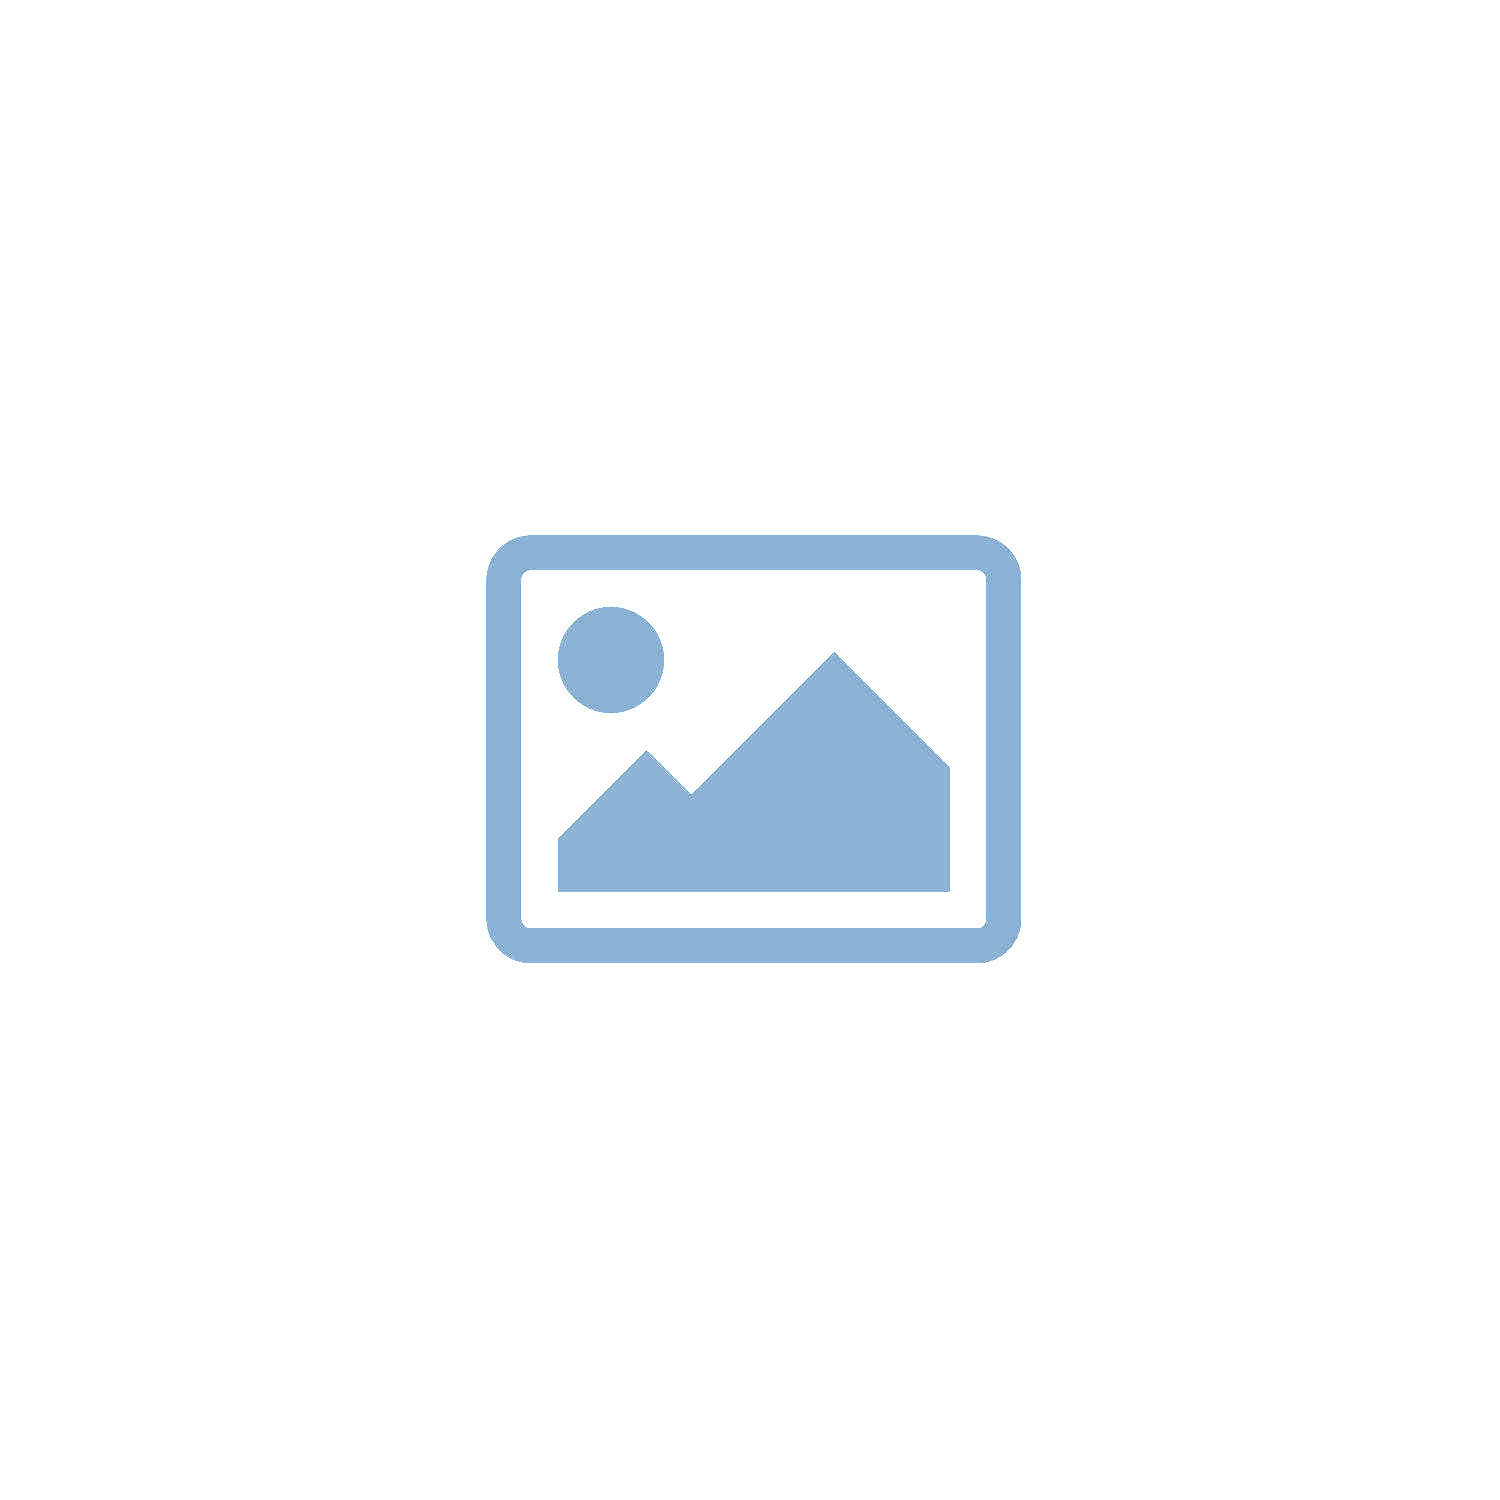
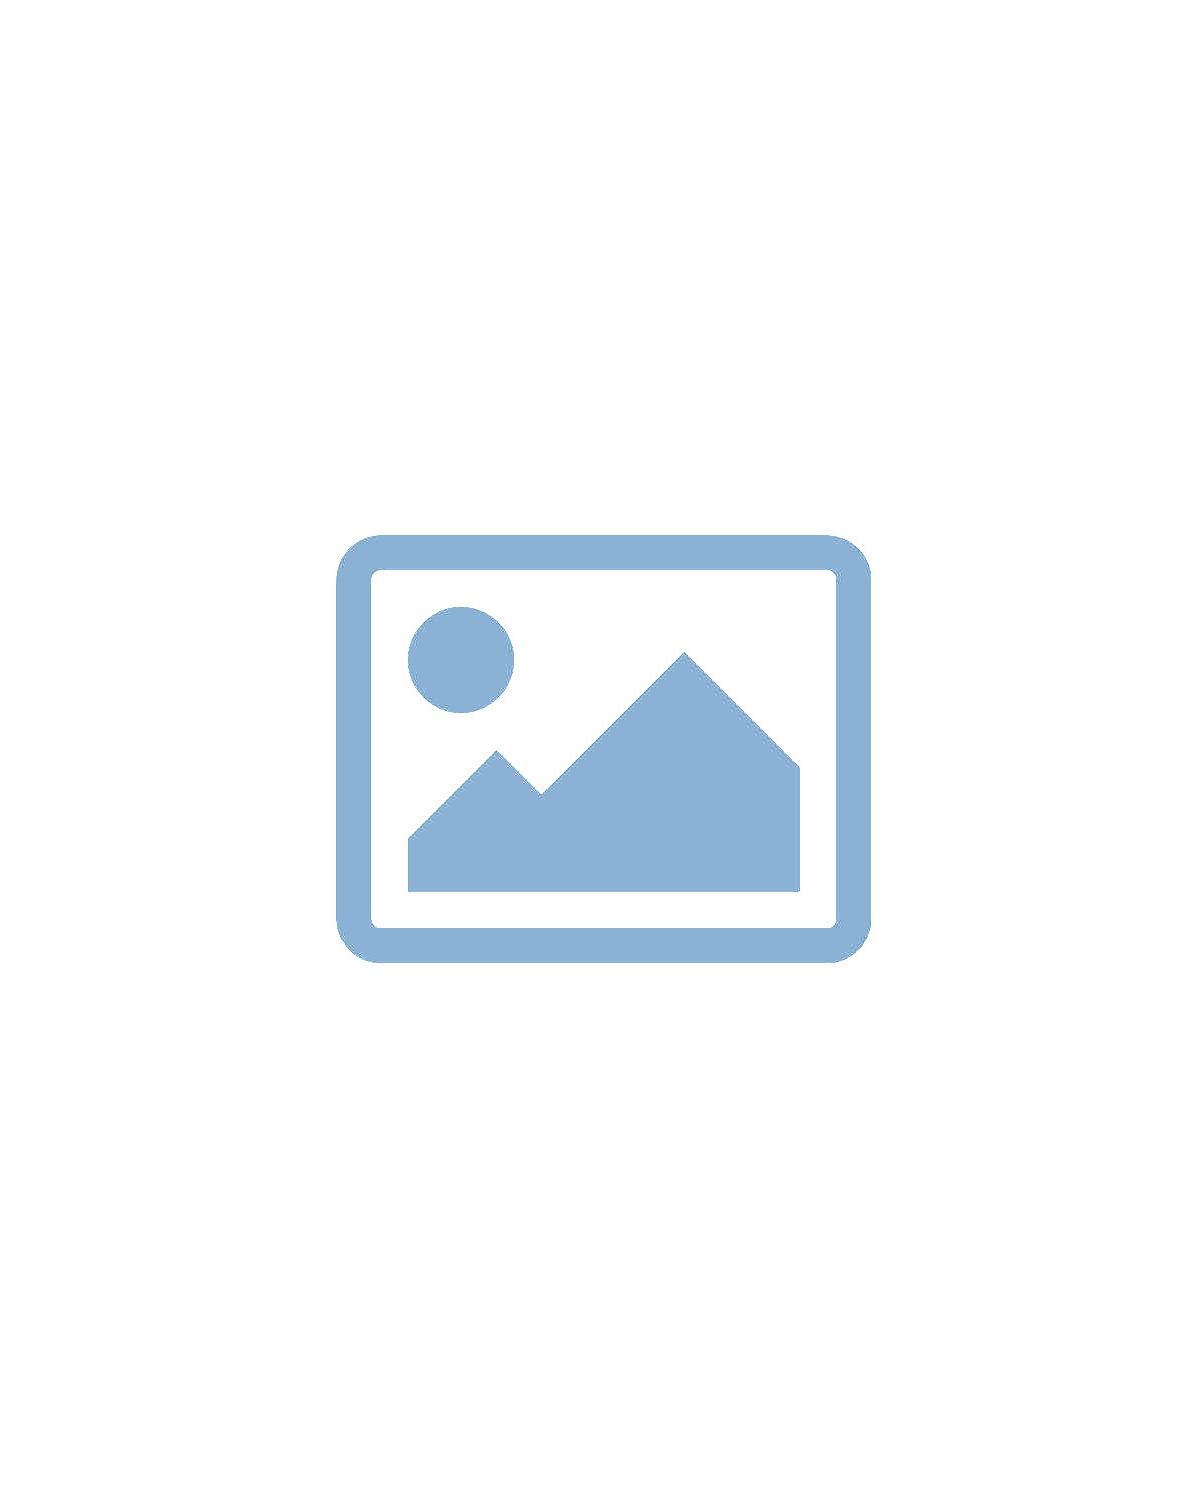
acervo-cine: implementing image centering

Changed region(s): [[0.2775, 0.3373, 0.4933, 0.644], [0.5242, 0.3373, 0.74, 0.644]]

diff --git a/acervo-cine/experience.js b/acervo-cine/experience.js
@@ -1,4 +1,5 @@
 let currentCategory
+let currentImage
 
 
 function preloadImages() {
@@ -18,6 +19,7 @@ function categoryLoad( category ) {
 function experienceSetup() {
 
     currentCategory = db.category1
+    currentImage = 0
 
 }
 
@@ -32,7 +34,7 @@ function experienceDraw() {
     rect( 0, 0, width, height )
 
 
-    currentCategory.forEach( imageDraw )
+    imageDraw( currentCategory[currentImage] )
 
 
     
@@ -41,15 +43,49 @@ function experienceDraw() {
 
 
 
-function imageDraw( img, i ) {
+function imageDraw( img ) {
 
-    image( img.image, i*100, i*100, 100, 100 )
+    let vertical = img.image.height > img.image.width
+
+
+    let imgW
+    let imgH
+
+    let aspectRatio = img.image.width / img.image.height
+
+    if( vertical ) {
+        
+        let w = min( height, img.image.width / aspectRatio )
+        let h = w / aspectRatio
+
+        imgW = w
+        imgH = h
+    } else {
+
+        let h = min( height, img.image.width * aspectRatio )
+        let w = h * aspectRatio
+
+        imgW = w
+        imgH = h
+
+    }
+
+
+
+    let imgX = ( width - imgW ) / 2
+    let imgY = ( height - imgH ) / 2
+
+    let textX = width - 200
+    let textY = height / 2
+
+    image( img.image, imgX, imgY, imgW, imgH )
 
     fill( '#' + img.color )
 
-    text( img.title, i*100, i*100+120 )
-    text( img.author, i*100, i*100+150 )
-    text( img.text, i*100, i*100+180 )
+
+    text( img.title, textX, textY+20 )
+    text( img.author, textX, textY+50 )
+    text( img.text, textX, textY+80 )
 
 }
 
@@ -61,9 +97,19 @@ function categoryChoose( number ) {
     let nextKey = keys[ (number-1) % keys.length ]
 
     currentCategory = db[ nextKey ]
+    currentImage = 0
 
 }
 
+
+
+
+function imageNext() {
+
+    currentImage++
+    currentImage %= currentCategory.length
+
+}
 
 
 

diff --git a/acervo-cine/script.js b/acervo-cine/script.js
@@ -28,7 +28,11 @@ function draw() {
 function keyPressed() {
 
     if( parseInt(key) > 0 ) {
+        // with number keys, choose image
         categoryChoose( parseInt(key) )
+    } else {
+        // with other keys, choose next image
+        imageNext()
     }
 
 }

diff --git a/acervo-cine/to-do.md b/acervo-cine/to-do.md
@@ -8,9 +8,15 @@
 - [x] Pintar imágenes de solo una categoría
 - [x] Elegir una categoría
 
-- [ ] Centrar imágenes
+
+- [x] Implementar cambio de contenido manual (skip)
+
+- [ ] Pintar imágenes de manera centrada (por corregir)
+
+- [ ] Presentar texto de imágenes de manera ordenada
+
 - [ ] Implementar secuenciado de materiales en el tiempo
-- [ ] Implementar cambio de contenido manual (skip)
+
 
 
 ### Navegación
